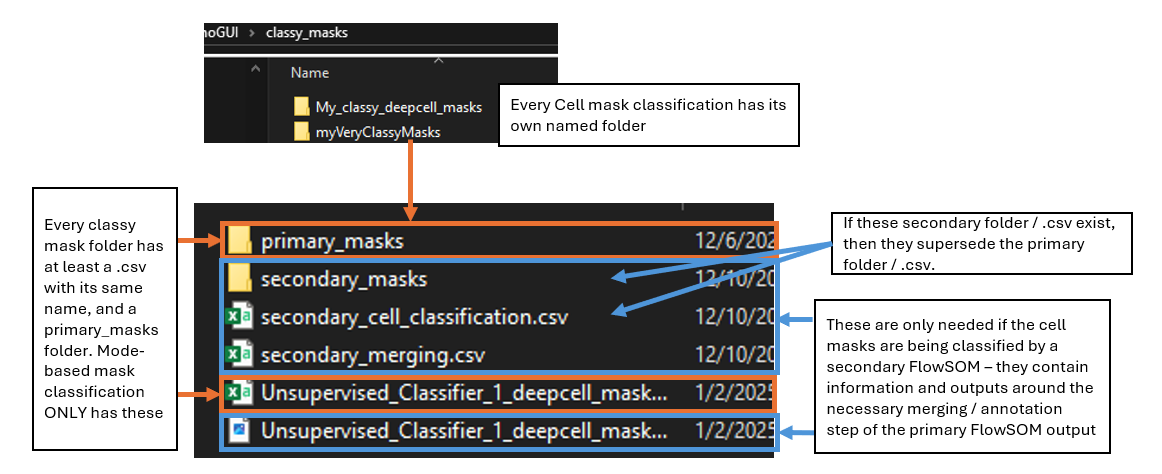
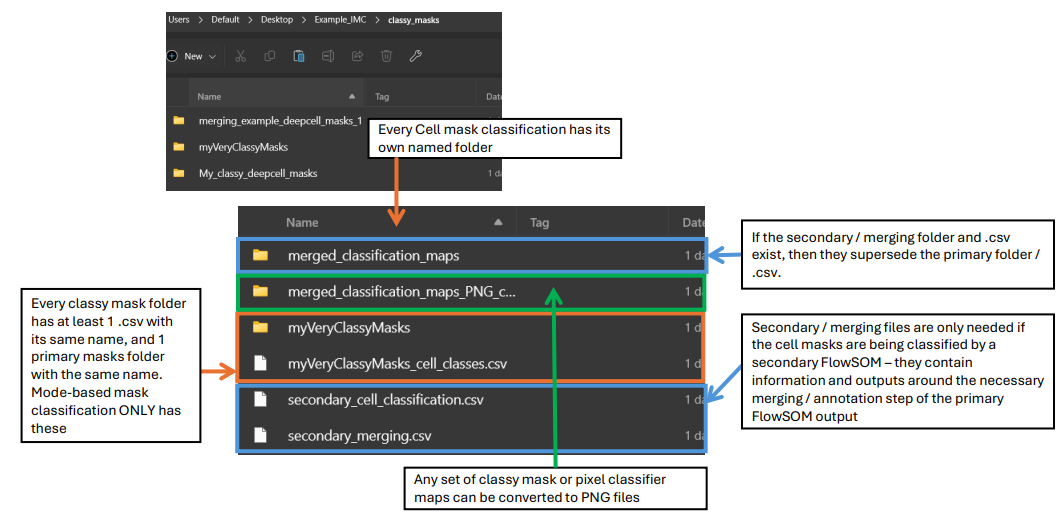
add / fix refs, update advanced pngs, docs changes

diff --git a/docs/source/Glossary.rst b/docs/source/Glossary.rst
@@ -1,14 +1,23 @@
 Glossary
 ========
 
+.. _Analysis:
 Analysis
 ^^^^^^^^
 
    In PalmettoBUG an ‘analysis’ usually refers to the single-cell
-   calculations and plots operating on *FCS* files, which is to say all
+   calculations and plots operating on :ref:`FCS`, which is to say all
    the functions associated with the 4\ :sup:`th` tab of the program.
    For imaging experiments, this occurs after measurements for each cell
    are read from the segmentation masks, and converted to FCS files.
+
+.. _annotation:
+Annotation
+^^^^^^^^^^
+
+   Or :ref:`merging`. The process of assigning biologically relevant labels to the output
+   of an :ref:`unsupervised-algorithm` used to cluster cells or pixels. This typically also involves combining two
+   or more groups of the clustering into a single label, hence the common alternative name "merging". 
 
 Analysis_panel.csv
 ^^^^^^^^^^^^^^^^^^
@@ -34,8 +43,8 @@ Batch Correction
 CATALYST
 ^^^^^^^^
 
-   An R *package* whose functions and associated manuscript served as
-   the inspiration and seed for much of the PalmettoBUG *analysis*
+   An R package whose functions and associated manuscript (https://f1000research.com/articles/6-748/v3) served as
+   the inspiration and seed for much of the PalmettoBUG :ref:`Analysis`
    functions. 
    
    Link: https://github.com/HelenaLC/CATALYST/ 
@@ -64,11 +73,12 @@ Leiden
    A clustering derived by the Leiden unsupervised algorithm acting on a
    UMAP of the single-cell expression data. See :ref:`Leiden-Algorithm`
 
+.. _merging:
 Merging
 '''''''
 
-   A manual annotation of an unsupervised clustering (FlowSOM / Leiden),
-   assigning the numerical groups produced by those algorithms to
+   A manual :ref:`annotation` of an :ref:`unsupervised-algorithm` used for clustering 
+   (:ref:`FlowSOM` / :ref:`Leiden-Algorithm`), assigning the numerical groups produced by those algorithms to
    biologically relevant groupings, often merging two or more of the
    numerical groups into one label.
 
@@ -85,6 +95,7 @@ CN
    a FlowSOM or Leiden to create unsupervised clusters that can then be
    annotated. CN clustering is only possible with imaging datasets.
 
+.. _classification-maps:
 Classification maps
 ^^^^^^^^^^^^^^^^^^^
 
@@ -93,14 +104,13 @@ Classification maps
    ‘channel’ / layer. This channel contains the class predictions, which
    are unique integer values representing each unique class.
 
-..
-
    When these numerical classes are annotated / merged (this is
    semi-automatic for supervised classifiers), a “merged classification map”
    is created, where ‘background’ pixels are set to 0, and the numerical
    values of the pixels are re-assigned based on the labels supplied by
    the user.
 
+.. _denoising:
 Denoising
 ^^^^^^^^^
 
@@ -132,6 +142,7 @@ PCA
    allowing just the top two, most important components to be used for
    plotting.
 
+.. _UMAP:
 UMAP
 ^^^^
 
@@ -142,6 +153,7 @@ UMAP
 
    Link: https://scanpy.readthedocs.io/en/stable/generated/scanpy.tl.umap.html
 
+.. _fANOVA:
 fANOVA
 ^^^^^^
 
@@ -151,7 +163,7 @@ fANOVA
    into account the spatial relationship of celltypes across an entire
    range of distances, instead of only testing one distance at a time.
     
-
+.. _FCS:
 FCS files
 ^^^^^^^^^
 
@@ -160,10 +172,8 @@ FCS files
    associated metadata. Commonly exported by flow cytometers and flow
    cytometry software.
 
-..
-
    FCS files are one of the starting file types, and they can be used to
-   initiate an ‘\ *analysis’* in PalmettoBUG. They are also an
+   initiate an :ref:`Analysis` in PalmettoBUG. They are also an
    intermediate in the PalmettoBUG pipeline, produced after taking
    region measurements of the cells in the images using segmentation
    masks.
@@ -180,20 +190,21 @@ FlowSOM
 
    Link: https://github.com/saeyslab/FlowSOM_Python
 
+.. _image-processing:
 Image Processing
 ^^^^^^^^^^^^^^^^
 
    In PalmettoBUG / its documentation, this typically refers to the
    steps of the pipeline available in the second tab of the program,
    including the *isoSegDenoise* sub-program. This would include
-   converting *MCD* files / hot pixel filtering, *segmentation*,
-   *denoising*, and *region measurements*.
+   converting :ref:`MCD` / hot pixel filtering, :ref:`segmentation`,
+   :ref:`denoising`, and :ref:`region-measurement`.
 
 isoSegDenoise
 ^^^^^^^^^^^^^
 
    A pure-python associate package with PalmettoBUG, offering its own
-   GUI for the denoising of images and the segmentation of cells. It
+   GUI for the :ref:`denoising` of images and the :ref:`segmentation` of cells. It
    expects the same directory structure, and the same file types, etc.
    as PalmettoBUG, and similarly its outputs are easily and
    automatically picked up by PalmettoBUG.
@@ -210,7 +221,7 @@ Leiden Algorithm
 ^^^^^^^^^^^^^^^^
 
    A method for grouping neighboring points in a network. In
-   PalmettoBUG, it is used after a *UMAP* embedding of the cells, such
+   PalmettoBUG, it is used after a :ref:`UMAP` embedding of the cells, such
    that cells in similar locations of the UMAP projection will be
    clustered together. Unlike *FlowSOM*, it does not take a preset
    metaclustering number, and the final number of clusters it finds is
@@ -219,10 +230,11 @@ Leiden Algorithm
 
    Link: https://scanpy.readthedocs.io/en/stable/generated/scanpy.tl.leiden.html 
 
+.. _masks:
 Masks
 ^^^^^
 
-   The output of *segmentation*. These are derived from the images of
+   The output of :ref:`segmentation`. These are derived from the images of
    the dataset, having the same X / Y dimensions, but only 1 ‘channel’ /
    layer. This layer contains integer values for the pixels – each
    unique cell having a unique value – and zeros for pixels that lie
@@ -230,8 +242,9 @@ Masks
    masks, all the pixels of a given integer value are treated as a
    single cell.
 
-MCD file
-^^^^^^^^
+.. _MCD:
+MCD Files
+^^^^^^^^^
 
    A file format exported by Standard BioTools’ Hyperion imaging system.
    It is essentially a group of TIFF files (one for each ROI and
@@ -241,8 +254,6 @@ MCD file
    (brightfield images of the slides – these are usually only important
    for finding the tissue of interest during acquisition and not
    directly processed by PalmettoBUG).
-
-..
 
    MCD files are one of the starting file types that can be used to
    initiate an imaging project in PalmettoBUG.
@@ -276,10 +287,10 @@ panel.csv
 ^^^^^^^^^
 
    One of the key data table files needed by PalmettoBUG (can be made
-   inside the GUI). This is concerned with *image processing* steps, and
+   inside the GUI). This is concerned with :ref:`image-processing` steps, and
    specifies the name of the channels, what channels to keep from the
-   initial *MCD* / *TIFF* files, and what channels to use during
-   *segmentation*.
+   initial :ref:`MCD` / :ref:`TIFF`, and what channels to use during
+   :ref:`segmentation`.
 
 .. _Pixel-Classification:
 Pixel Classification
@@ -290,8 +301,6 @@ Pixel Classification
    other transformations on the data, such as extending segmentation
    masks.
 
-..
-
    In PalmettoBUG, this can also refer to the third tab of the program,
    and its two sub-tabs (creating and using a pixel classifier).
 
@@ -300,14 +309,15 @@ Project
 
    In PalmettoBUG, a ‘project’ typically refers to an imaging-based
    experiment that is processed all within in a single computer
-   directory. As in, a replicate of a data analysis in PalmettoBUG whose *image processing*,
-   *segmentation*, *analysis*, etc. occurred in an entirely separate folder from the original would
+   directory. As in, a replicate of a data analysis in PalmettoBUG whose :ref:`image-processing`,
+   :ref:`segmentation`, :ref:`Analysis`, etc. occurred in an entirely separate folder from the original would
    be a separate “project”, despite only being a replicate.
 
+.. _region-measurement:
 Region Measurement
 ^^^^^^^^^^^^^^^^^^
 
-   This is the step in the program where cell *segmentation masks* +
+   This is the step in the program where cell segmentation :ref:`masks` +
    images are converted into single-cell data that can be written as csv
    or *FCS* files. Specifically, pixels with all the same value in the
    masks are treated as ‘cells’, and their spatial / shape
@@ -315,13 +325,14 @@ Region Measurement
    pixels’ intensities in each image channel are aggregated (usually by
    the mean or median) for each cell and written to ‘intensities’ csv
    files, which can then be easily converted to FCS files for
-   *analysis*.
+   :ref:`Analysis`.
 
+.. _segmentation:
 Segmentation
 ^^^^^^^^^^^^
 
    The process of identifying single cells in an image, in the end
-   creating a *mask* that can be used for *region measurement*. In
+   creating a :ref:`mask` that can be used for :ref:`region-measurement`. In
    PalmettoBUG, this can be done using pre-trained, generalist
    deep-learning networks from prior publications — Deepcell / Mesmer
    and Cellpose models — or by using a pixel classifier.
@@ -331,17 +342,16 @@ Spatial Analysis
 
    In PalmettoBUG, this refers to the fifth and last tab of the program,
    as well as the functions that are available there. This includes cell
-   *neighborhoods*, *SpaceANOVA*, *spatial EDT*, etc. This is tightly
-   associated with, and dependent on, the *analysis* portion of the
+   neighborhoods, SpaceANOVA, spatial EDT, etc. This is tightly
+   associated with, and dependent on, the :ref:`Analysis` portion of the
    program.
 
 SpaceANOVA
 ^^^^^^^^^^
 
-   An R *package* whose method (see *manuscript*) was translated into
-   Python for use inside PalmettoBUG. Briefly, it uses *Ripley’s
-   statistics* + *fANOVA* to test the spatial associations of
-   *clusterings* / cell types in a dataset.
+   An R package whose method (see https://pubs.acs.org/doi/10.1021/acs.jproteome.3c00462) was translated into
+   Python for use inside PalmettoBUG. Briefly, it uses Ripley’s statistics + :ref:`fANOVA`` to test the spatial associations of
+   clusterings / cell types in a dataset.
 
    Link: https://github.com/sealx017/SpaceANOVA
 
@@ -349,9 +359,9 @@ Spatial EDT
 ^^^^^^^^^^^
 
    This is technique in PalmettoBUG that uses a pixel classifier’s
-   *classification maps* to generate Euclidean distance transforms of
+   :ref:`classification-maps`` to generate Euclidean distance transforms of
    images for each pixel class, with the EDT values being the distance
-   from that pixel classes. *Region measurement* can then be performed
+   from that pixel classes. :ref:`region-measurement` can then be performed
    to find the distance values of cells from the pixel classes. In this
    way, the distance between cells and non-cellular structures can be
    probed.
@@ -359,11 +369,11 @@ Spatial EDT
 Steinbock
 ^^^^^^^^^
 
-   A python *package* from the Bodenmiller group that served as the
+   A python package from the Bodenmiller group that served as the
    inspiration & seed for much of image processing portion of the
    PalmettoBUG pipeline.
 
-   Link: https://github.com/BodenmillerGroup/steinbock
+   Link: https://github.com/BodenmillerGroup/steinbock and https://www.nature.com/articles/s41596-023-00881-0
 
 Supervised Algorithm
 ^^^^^^^^^^^^^^^^^^^^
@@ -371,9 +381,10 @@ Supervised Algorithm
    Any classification / clustering algorithm that requires a training
    set of labeled pixels / cells to learn the classes it will predict.
    This also means that its predictions can immediately be identified /
-   correlated to biologically relevant labels. PalmettoBUG only uses a
-   supervised algorithm for *pixel classification*.
+   correlated to biologically relevant labels. The only time PalmettoBUG uses a
+   supervised algorithm is for a type of :ref:`Pixel-Classification`.
 
+.. _unsupervised-algorithm:
 Unsupervised Algorithm
 ^^^^^^^^^^^^^^^^^^^^^^
 
@@ -381,10 +392,11 @@ Unsupervised Algorithm
    training set to learn before prediction, although they do take user
    input for hyperparameters. One consequence of this is that their
    output classes / clusters are numerical, not having any known
-   biological meaning until *annotated* by the user. The most commonly
-   used unsupervised algorithm in PalmettoBUG is *FlowSOM*, but *Leiden*
+   biological meaning until :ref:`annotation` by the user. The most commonly
+   used unsupervised algorithm in PalmettoBUG is :ref:`FlowSOM`, but :ref:`Leiden-Algorithm`
    clustering is also available for cells.
 
+.. _TIFF:
 TIFF files
 ^^^^^^^^^^
 
@@ -395,8 +407,6 @@ TIFF files
    number of channels. When read into python, they are easily
    represented by numpy arrays.
 
-..
-
    TIFF files are one of the starting file types that can be used to
    initiate an imaging project in PalmettoBUG.
 
@@ -404,4 +414,4 @@ TIFF files
    metadata and more consistently structure metadata, however their
    pixel values are read in the same way. PalmettoBUG always writes and
    processes with .ome.tiff files after the first step (conversion from
-   the initial *MCD* or TIFF files).
+   the initial :ref:`MCD` or TIFF files).

diff --git a/docs/source/SingleCellAnalysis.rst b/docs/source/SingleCellAnalysis.rst
@@ -93,6 +93,7 @@ folders, and then load the directory. For imaging projects in
 PalmettoBUG, every sub-folder of */Analyses* (i.e., every individual
 analysis made for the imaging project) will be a valid folder for
 loading in this way. 
+
 .. note::
    This means that you can load the
    single-cell analysis portion of an imaging project in 2 ways – either
@@ -684,7 +685,7 @@ classy masks on top to see if cell clustering labels visually make sense with th
 
 Naturally, this option only works for imaging projects -- not solution-mode / FCS-only projects.
 
-
+.. _Links:
 Links
 ~~~~~
 

diff --git a/docs/source/ImageProcessing.rst b/docs/source/ImageProcessing.rst
@@ -10,7 +10,7 @@ image processing tab:
 The Panel 
 ~~~~~~~~~~
 
-On the left half of the GUI you should see the :ref:`steinbock <Links>`-style Panel
+On the left half of the GUI you should see the :ref:`steinbock <Links1>`-style Panel
 file, with four columns. Each column serves a different purpose:
 
 1. Channel – this column cannot be edited in the GUI, and represents the
@@ -319,6 +319,7 @@ As for what happens after clicking “Go to Analysis!” – well for
 that we’ll need to turn the page into the :doc:`SingleCellAnalysis`
 documentation.
 
+.. _Links1:
 Links
 ~~~~~
 
